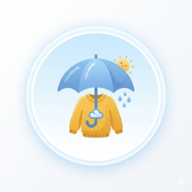
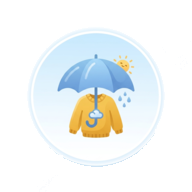
Fix: 빌드 에러 해결 및 파비콘 추가

Changed region(s): [[0.0938, 0.125, 0.9062, 0.9062], [0.3125, 0.1562, 0.375, 0.1875]]

diff --git a/src/app/page.tsx b/src/app/page.tsx
@@ -1,132 +1,12 @@
 'use client'
-import { Logo } from "@/shared";
-import { SearchBar } from "@/features/search/ui/SearchBar";
-import { Card } from "@/shared";
-import { CurrentWeatherInfoSkeleton } from "@/widgets/CurrentWeatherInfo/ui/CurrentWeatherInfoSkeleton";
-import { CurrentWeatherInfo } from "@/widgets/CurrentWeatherInfo/ui/CurrentWeatherInfo";
-import { HourlyWeatherSkeleton } from "@/widgets/HourlyWeather/ui/HourlyWeatherSkeleton";
-import { HourlyWeatherSection } from "@/widgets/HourlyWeather/ui/HourlyWeatherSection";
-import { FavoriteSection } from "@/widgets/FavoriteList/ui/FavoriteSection";
 
-import { useCoords } from "@/entities/coords/model/useCoords";
-import { useAddress } from "@/entities/address/model/useAddress";
-import { useWeatherStore } from "@/entities/weather/model/useWeatherStore";
-import { useWeather } from "@/entities/weather/model/useWeather";
-import { useParsedAddress } from "@/entities/address/model/useParsedAddress";
-import { useWeatherDetail } from "@/entities/weather/model/useWeatherDetail";
-import { useAddressToCoords } from "@/entities/address/model/useAddressToCoords";
-import { useRouter } from "next/navigation";
-import { useSearchParams } from "next/navigation";
-import { useEffect } from "react";
-import { TodayClothesSection } from "@/widgets/TodayClothes/ui/TodayClothesSection";
-import { RecommendedActivitiesSection } from "@/widgets/RecommendedActivities/ui/RecommendedActivitiesSection";
-import { useWeatherRecommendation } from "@/entities/weather/api/useWeatherRecommendation";
+import { Suspense } from 'react';
+import HomeContent from '@/features/home/HomeContent';
 
 export default function Home() {
-  const { coords, coordsResult } = useCoords();
-  const address = useAddress(coords);
-
-  const router = useRouter(); 
-  const searchParams = useSearchParams(); 
-  
-  const locationParam = searchParams?.get('location');
-  
-  // 💡 무한 루프 방지를 위해 현재 스토어에 저장된 값(currentLocation)도 함께 가져옵니다.
-  const { currentLocation, setCurrentLocation } = useWeatherStore();
-  
-  const coordsData = useAddressToCoords(locationParam || '');
-
-  // 💡 [수정] URL 파라미터 동기화 로직 최적화
-  useEffect(() => {
-    // 1. URL에 파라미터가 없고 현재 내 위치 주소가 로드되었을 때 (최초 1번만 진입)
-    if (!locationParam && address?.address_name) {
-      router.push(`/?location=${encodeURIComponent(address.address_name)}`);
-      setCurrentLocation(address.address_name);
-      return; // 실행 후 즉시 종료해서 아래 로직 타지 않게 방어
-    }
-
-    // 2. URL 파라미터가 존재하고, '그 값이 현재 스토어의 값과 다를 때만' 스토어를 갱신합니다. (★핵심 잠금장치)
-    if (typeof locationParam === 'string' && locationParam !== currentLocation) {
-      setCurrentLocation(locationParam);
-    }
-  }, [locationParam, address?.address_name, currentLocation, router, setCurrentLocation]); 
-  // 💡 의존성 배열에서 객체 전체인 'address' 대신 원시값인 'address.address_name'만 바라보게 하여 참조값 버그를 파괴합니다.
-
-  const lat = coordsData?.[0]
-    ? Number(coordsData[0].y)
-    : coords?.[0] ?? 0;
-    
-  const lon = coordsData?.[0]
-    ? Number(coordsData[0].x)
-    : coords?.[1] ?? 0;
-
-  const { data: weather } = useWeather(lat, lon);
-  const weatherDetail = useWeatherDetail(weather); 
-  const parsedAddress = useParsedAddress(currentLocation);
-  
-  const isLoading = !weather;
-
-  // 💡 제미나이 호출 훅 (위에서 무한 렌더링을 잡았기 때문에 이제 딱 1번만 예쁘게 작동합니다)
-  const { data: llmData, isLoading: llmIsLoading } = useWeatherRecommendation(
-    weather,
-    locationParam!
-  );
-
   return (
-     <main className="w-screen min-h-screen flex flex-col gap-6 lg:grid lg:grid-cols-12 lg:gap-8 lg:px-0 lg:items-start box-border bg-[#F7F7FA]">
-      {/* 상단 영역 */}
-      <div className="flex flex-col gap-2 lg:col-span-12 lg:grid lg:grid-cols-12 lg:items-center lg:border-b lg:border-[#E9E9E9] lg:pb-6 bg-[#FFFFFF]">
-        <header className="lg:col-span-3 px-4 pt-3 lg:px-10">
-          <Logo />
-        </header>
-        {/* 검색바 */}
-        <section className="border-y border-[#E9E9E9] py-3 lg:col-span-6 lg:border-none lg:py-0 lg:pt-4 isolate z-50">
-          <SearchBar />
-        </section>
-      </div>
-      
-      {coordsResult?.status === 'unavailable' && (
-        <div className="w-125 lg:ml-162.5">
-          <Card width="favoriteItem">
-            <p>해당 장소의 정보가 제공되지 않습니다.</p>
-          </Card>
-        </div>
-      )}
-      
-      {coordsResult?.status !== 'unavailable' && (
-        <>
-          {!weatherDetail ? (
-            <CurrentWeatherInfoSkeleton />
-          ) : (
-            <CurrentWeatherInfo
-              weatherIcon={{ ...weatherDetail.condition, width: 'current' }}
-              curTmp={Math.floor(weather?.current.temp)}
-              minTmp={weatherDetail?.minTmp ?? 0}
-              maxTmp={weatherDetail?.maxTmp ?? 0}
-              currentLocation={currentLocation}
-              address={parsedAddress}
-              lat={lat}
-              lon={lon}
-            />
-          )}
-
-          {/* 시간대별 날씨 */}
-          {isLoading ? (
-            <HourlyWeatherSkeleton />
-          ) : (
-            <HourlyWeatherSection data={weather?.hourly} />
-          )}
-
-          {/* 즐겨찾기 */}
-          <FavoriteSection isLoading={isLoading} />
-
-          {/* 오늘의 옷차림 */}
-          <TodayClothesSection clothData={llmData?.clothing} isLoading={llmIsLoading} />
-
-          {/* 오늘의 추천 활동 */}
-          <RecommendedActivitiesSection activeData={llmData?.activity} isLoading={llmIsLoading} />
-        </>
-      )}
-    </main>
+    <Suspense fallback={<div>loading...</div>}>
+      <HomeContent />
+    </Suspense>
   );
 }

diff --git a/src/features/home/HomeContent.tsx b/src/features/home/HomeContent.tsx
@@ -1,0 +1,134 @@
+'use client'
+import { Logo } from "@/shared";
+import { SearchBar } from "@/features/search/ui/SearchBar";
+import { Card } from "@/shared";
+import { CurrentWeatherInfoSkeleton } from "@/widgets/CurrentWeatherInfo/ui/CurrentWeatherInfoSkeleton";
+import { CurrentWeatherInfo } from "@/widgets/CurrentWeatherInfo/ui/CurrentWeatherInfo";
+import { HourlyWeatherSkeleton } from "@/widgets/HourlyWeather/ui/HourlyWeatherSkeleton";
+import { HourlyWeatherSection } from "@/widgets/HourlyWeather/ui/HourlyWeatherSection";
+import { FavoriteSection } from "@/widgets/FavoriteList/ui/FavoriteSection";
+
+import { useCoords } from "@/entities/coords/model/useCoords";
+import { useAddress } from "@/entities/address/model/useAddress";
+import { useWeatherStore } from "@/entities/weather/model/useWeatherStore";
+import { useWeather } from "@/entities/weather/model/useWeather";
+import { useParsedAddress } from "@/entities/address/model/useParsedAddress";
+import { useWeatherDetail } from "@/entities/weather/model/useWeatherDetail";
+import { useAddressToCoords } from "@/entities/address/model/useAddressToCoords";
+import { useRouter } from "next/navigation";
+import { useSearchParams } from "next/navigation";
+import { useEffect } from "react";
+import { TodayClothesSection } from "@/widgets/TodayClothes/ui/TodayClothesSection";
+import { RecommendedActivitiesSection } from "@/widgets/RecommendedActivities/ui/RecommendedActivitiesSection";
+import { useWeatherRecommendation } from "@/entities/weather/api/useWeatherRecommendation";
+
+
+export default function HomeContent() {
+  const { coords, coordsResult } = useCoords();
+  const address = useAddress(coords);
+
+  const router = useRouter(); 
+  const searchParams = useSearchParams(); 
+  
+  const locationParam = searchParams?.get('location');
+  
+  // 💡 무한 루프 방지를 위해 현재 스토어에 저장된 값(currentLocation)도 함께 가져옵니다.
+  const { currentLocation, setCurrentLocation } = useWeatherStore();
+  
+  const coordsData = useAddressToCoords(locationParam || '');
+
+  // 💡 [수정] URL 파라미터 동기화 로직 최적화
+  useEffect(() => {
+    // 1. URL에 파라미터가 없고 현재 내 위치 주소가 로드되었을 때 (최초 1번만 진입)
+    if (!locationParam && address?.address_name) {
+      router.push(`/?location=${encodeURIComponent(address.address_name)}`);
+      setCurrentLocation(address.address_name);
+      return; // 실행 후 즉시 종료해서 아래 로직 타지 않게 방어
+    }
+
+    // 2. URL 파라미터가 존재하고, '그 값이 현재 스토어의 값과 다를 때만' 스토어를 갱신합니다. (★핵심 잠금장치)
+    if (typeof locationParam === 'string' && locationParam !== currentLocation) {
+      setCurrentLocation(locationParam);
+    }
+  }, [locationParam, address?.address_name, currentLocation, router, setCurrentLocation]); 
+  // 💡 의존성 배열에서 객체 전체인 'address' 대신 원시값인 'address.address_name'만 바라보게 하여 참조값 버그를 파괴합니다.
+
+  const lat = coordsData?.[0]
+    ? Number(coordsData[0].y)
+    : coords?.[0] ?? 0;
+    
+  const lon = coordsData?.[0]
+    ? Number(coordsData[0].x)
+    : coords?.[1] ?? 0;
+
+  const { data: weather } = useWeather(lat, lon);
+  const weatherDetail = useWeatherDetail(weather); 
+  const parsedAddress = useParsedAddress(currentLocation);
+  
+  const isLoading = !weather;
+
+  // 💡 제미나이 호출 훅 (위에서 무한 렌더링을 잡았기 때문에 이제 딱 1번만 예쁘게 작동합니다)
+const { data: llmData, isLoading: llmIsLoading } =
+  useWeatherRecommendation(
+    weather,
+    locationParam ?? ''
+  );
+
+  return (
+     <main className="w-screen min-h-screen flex flex-col gap-6 lg:grid lg:grid-cols-12 lg:gap-8 lg:px-0 lg:items-start box-border bg-[#F7F7FA]">
+      {/* 상단 영역 */}
+      <div className="flex flex-col gap-2 lg:col-span-12 lg:grid lg:grid-cols-12 lg:items-center lg:border-b lg:border-[#E9E9E9] lg:pb-6 bg-[#FFFFFF]">
+        <header className="lg:col-span-3 px-4 pt-3 lg:px-10">
+          <Logo />
+        </header>
+        {/* 검색바 */}
+        <section className="border-y border-[#E9E9E9] py-3 lg:col-span-6 lg:border-none lg:py-0 lg:pt-4 isolate z-50">
+          <SearchBar />
+        </section>
+      </div>
+      
+      {coordsResult?.status === 'unavailable' && (
+        <div className="w-125 lg:ml-162.5">
+          <Card width="favoriteItem">
+            <p>해당 장소의 정보가 제공되지 않습니다.</p>
+          </Card>
+        </div>
+      )}
+      
+      {coordsResult?.status !== 'unavailable' && (
+        <>
+          {!weatherDetail ? (
+            <CurrentWeatherInfoSkeleton />
+          ) : (
+            <CurrentWeatherInfo
+              weatherIcon={{ ...weatherDetail.condition, width: 'current' }}
+              curTmp={Math.floor(weather?.current?.temp ?? 0)}
+              minTmp={weatherDetail?.minTmp ?? 0}
+              maxTmp={weatherDetail?.maxTmp ?? 0}
+              currentLocation={currentLocation}
+              address={parsedAddress}
+              lat={lat}
+              lon={lon}
+            />
+          )}
+
+          {/* 시간대별 날씨 */}
+          {isLoading ? (
+            <HourlyWeatherSkeleton />
+          ) : (
+            <HourlyWeatherSection data={weather?.hourly} />
+          )}
+
+          {/* 즐겨찾기 */}
+          <FavoriteSection isLoading={isLoading} />
+
+          {/* 오늘의 옷차림 */}
+          <TodayClothesSection clothData={llmData?.clothing} isLoading={llmIsLoading} />
+
+          {/* 오늘의 추천 활동 */}
+          <RecommendedActivitiesSection activeData={llmData?.activity} isLoading={llmIsLoading} />
+        </>
+      )}
+    </main>
+  );
+}

diff --git a/src/app/layout.tsx b/src/app/layout.tsx
@@ -34,7 +34,7 @@ export const viewport: Viewport = {
 
 // 💡 2. 기존 Metadata에 manifest 파일 연결 및 모바일 웹앱 태그 추가
 export const metadata: Metadata = {
-  title: "날씨 코디 추천 서비스",
+  title: "SkyCast",
   description: "날씨 기반 매칭 서비스",
   manifest: "/manifest.json", // 👈 메인 매니페스트 연결
   appleWebApp: {
@@ -42,6 +42,9 @@ export const metadata: Metadata = {
     statusBarStyle: "default",
     title: "날씨코디",
   },
+  icons: {
+    icon: "/favicon.png",
+  }
 };
 
 

diff --git a/src/features/favorite/ui/FavoriteCard.tsx b/src/features/favorite/ui/FavoriteCard.tsx
@@ -60,7 +60,7 @@ export const FavoriteCard = ({
             ) : (
               <>
                 <p className="text-lg">{alias}</p>
-                <PencilIcon onClick={onClickEdit} className='w-[15px] h-[15px]'/>
+                <PencilIcon onClick={onClickEdit} className='w-3.75 h-3.75'/>
               </>
             )}
           </div>
